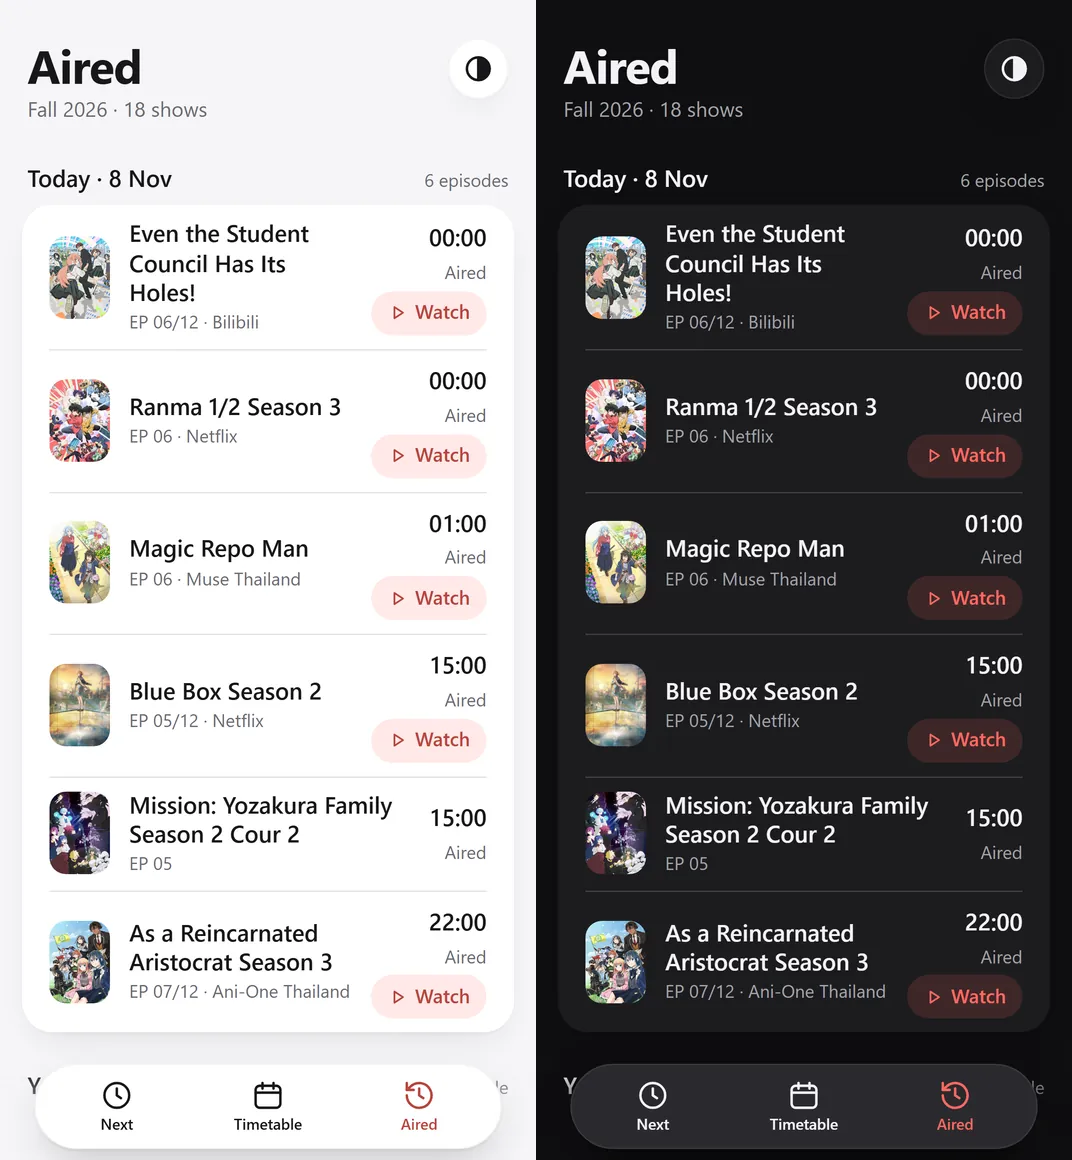
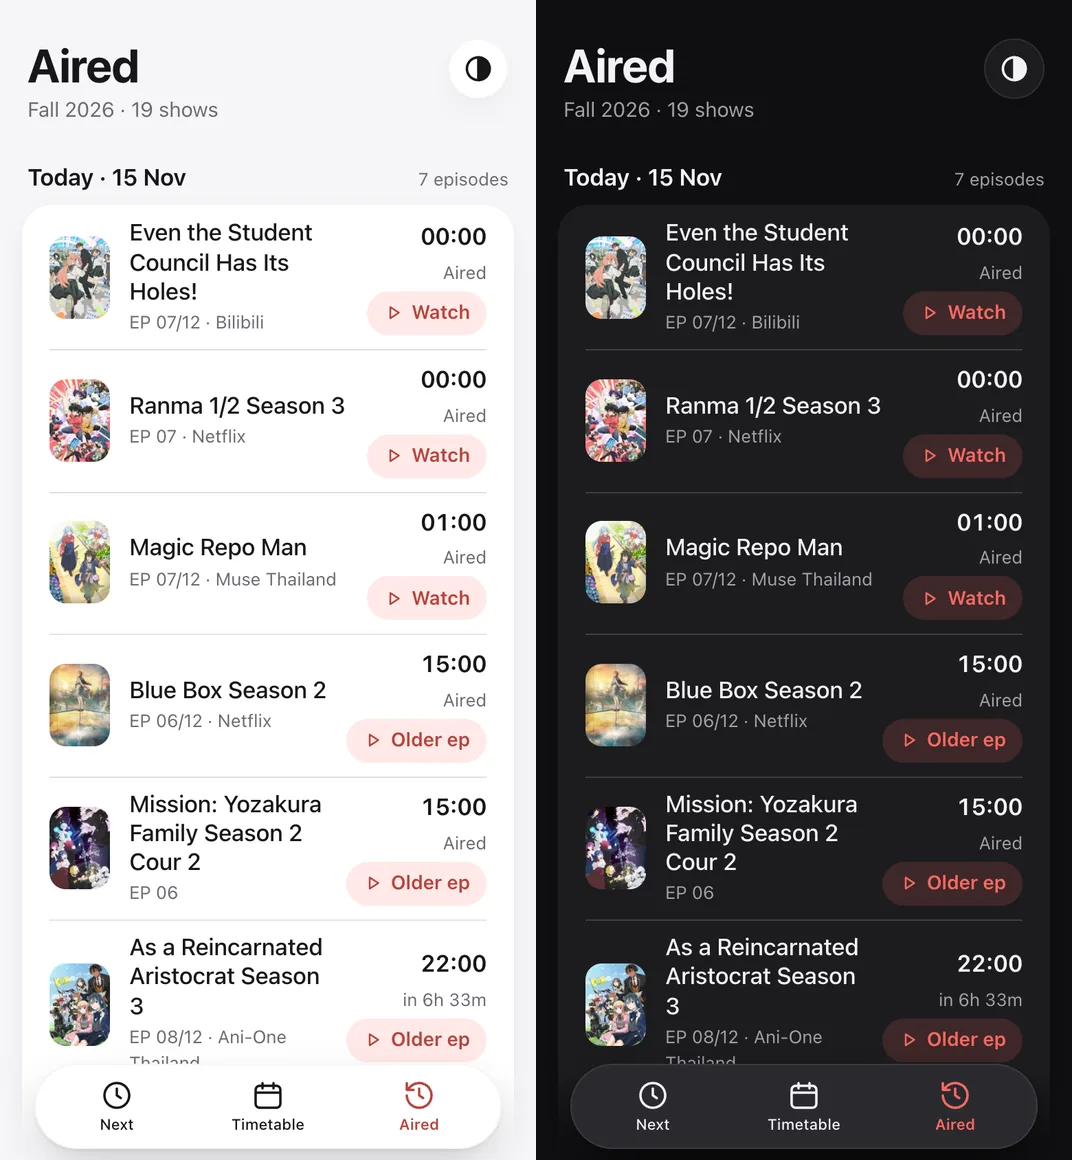
README: new website screenshots (Aired with today's later episodes and Older ep), sm-anime among the sites

diff --git a/README.md b/README.md
@@ -2,7 +2,7 @@
 
 Sends a LINE message (official account **Alert Watch**) when a tracked manga chapter, Webtoon episode or anime episode comes out, and after every Formula 1 session. It runs on GitHub Actions, so it works with your Mac off.
 
-- **Website:** https://isaraapae.github.io/alert-watch/anime/ (the old address, https://isaraapae.github.io/alert-watch/, forwards there; the move gave iPhone Safari a fresh address after it had remembered "no icon" for the old one). In the same style as [ป้าคีน](https://github.com/IsaraApae/paakeen): a floating menu (Next, Timetable, Aired) and a round Appearance button at the top. It has a countdown to the next episode and the next 7 days (**Next**), a Monday–Sunday **Timetable** (`?v=week`), and the episodes that aired in the past week with their Watch buttons (**Aired**, `?v=aired`). An episode's Watch button appears once its LINE card is out, never before (a YouTube premiere waits until it plays). A finished show leaves the site once its last episode is over a week old. Times are Thai time.
+- **Website:** https://isaraapae.github.io/alert-watch/anime/ (the old address, https://isaraapae.github.io/alert-watch/, forwards there; the move gave iPhone Safari a fresh address after it had remembered "no icon" for the old one). In the same style as [ป้าคีน](https://github.com/IsaraApae/paakeen): a floating menu (Next, Timetable, Aired) and a round Appearance button at the top. It has a countdown to the next episode and the next 7 days (**Next**), a Monday–Sunday **Timetable** (`?v=week`), and the episodes that aired in the past week with their Watch buttons (**Aired**, `?v=aired`), today's still to come included. An episode's Watch button appears once its LINE card is out, never before (a YouTube premiere waits until it plays). In **Aired**, a show whose newest episode has no Watch yet gets an **Older ep** button that opens the latest one that has. A finished show leaves the site once its last episode is over a week old. Times are Thai time.
 - **F1 Live:** https://isaraapae.github.io/f1-live/, its own site and repo ([IsaraApae/f1-live](https://github.com/IsaraApae/f1-live)): live timing, the track on a real map, calendar, standings, replays and lap battles.
 - **LINE menu:** four buttons on one white panel in the website's style, split by its hairlines, each with the site's icon: **Next**, **Timetable**, **Aired** and **F1 Live**. The menu image is [richmenu.png](richmenu.png), drawn from [richmenu.html](richmenu.html); after changing it, run the watch workflow with **richmenu** to install it in LINE.
 
@@ -32,7 +32,7 @@ Sends a LINE message (official account **Alert Watch**) when a tracked manga cha
 |---|---|
 | Manga ([urls.txt](urls.txt)) | The new chapter; for the 15 series also on WEBTOON Thai, the series in the WEBTOON app when WEBTOON has that chapter free |
 | Webtoon ([urls.txt](urls.txt)) | The episode in the WEBTOON app; for Enrolling in the Transcendent Academy, Zodiac Girls and My Virtual God Is a Teenage Girl, the series page; for Transcendent Academy and My Virtual God the card and LINE list give the app's newest episode ("Chapter 140": the 138 free plus the 2 locked behind coins or ads, `WEBTOON_LOCKED` in `watch.py`) |
-| Anime ([anime.txt](anime.txt)) | Muse/Ani-One shows: the Thai-sub video in Brave. Other shows (Netflix, Disney+, Bilibili, online): the [animegojo](https://animegojos.com) episode page, once it's up with Thai subs |
+| Anime ([anime.txt](anime.txt)) | Muse/Ani-One shows: the Thai-sub video in Brave. Other shows (Netflix, Disney+, Bilibili, online): the episode page on whichever site posts it first with Thai subs ([animegojo](https://animegojos.com), animeruka or [sm-anime](https://www.sm-anime.com)) |
 | Anime specials | The Thai-sub video in Brave. Specials are episode 0 or ".5" episodes posted by Muse Thailand or Ani-One Thailand, sent once a YouTube premiere starts. |
 
 Manga and anime cards look like a piece of the anime website, in its colours: on the site's light grey, a bold label like its day labels (New episode, New chapter, Watch now, New special), then a white rounded card holding one row as the site lists an episode: the cover with rounded corners, the title, the details in grey, and the site's **▷ Watch** (anime) or **▷ Read** (manga) pill. Tapping anywhere on the card opens the episode or chapter. If LINE ever refuses a card, the alert is sent as plain text instead; if LINE takes neither (LINE is down), the alert isn't recorded as sent, and the next check sends it.
@@ -108,7 +108,8 @@ You can also edit the files directly:
   - **When AniList or Syoboi is down** (on 21 Oct 2026 both were: AniList switched its API off for everyone, and Syoboi's server was offline), the watcher carries on with their last good answers, saved as `anilist_media` and `tv_times` in `ci-state.json` (or, before anything is saved, the episodes in `schedule.json`). Alerts, Watch links and the website keep working; the run logs `FAIL anilist: ... (using its last saved answer)`. New shows and changed air times wait until the site is back, and release times aren't learned meanwhile.
   - Thai-sub videos: the YouTube Data API (each channel's 50 newest uploads).
   - Thai-sub episodes on [animegojo](https://animegojos.com): used for the shows not on Muse/Ani-One (Netflix, Disney+, Bilibili, online). A series counts only if its page says (ซับไทย), never พากย์ไทย. These shows get **no card at the scheduled time** — one card (and a website Watch button) is sent only once animegojo has the episode, within ~8 days of release. Episodes released together (a whole Netflix season at once) are grouped into one card, e.g. "Episode 01-10"; if animegojo uploads them in parts, each part gets its own card as it appears ("Episode 01-03", then "Episode 04-07", ...). If a site continues a new cour on an older page (`GOJO_SHIFT` in `watch.py`; Yozakura Cour 2 appears as ตอนที่ 13+), the numbers are mapped back.
-  - **Two sites race: animeruka and animegojo** (and suba-anime for Yozakura). Each episode gets one card, from whichever site posted it first, and the card opens that site's episode page. Every card shows when the episode aired (its platform's Thai release time, or Japanese TV), not when the site posted it. animeruka is read from its episode feed (`FEEDS` in `watch.py`), ซับไทย posts only, which gives each upload's exact time. The feed only answers visitors in Thailand, so [vpn_feeds.py](vpn_feeds.py) reads it through a free Thai VPN Gate server, taking only the connection settings from VPN Gate's configs (never scripts or routes: the configs come from volunteers' servers). anime-waku was dropped: its Cloudflare bot check refused GitHub's servers. animegojo shows no upload times, so an episode first seen there is taken as uploaded halfway between the last check and this one (`first_source` marks the order `estimated`). Ordinary requests only: if a site answers with Cloudflare's bot check (as animeruka has for GitHub's servers), the run logs `FAIL animeruka: HTTP 403 (Cloudflare bot check)` and the other sites carry on. Run the workflow with **sites** to see which ones GitHub can read. On the website, each episode shows the show's official platform (Netflix, Bilibili, Muse Thailand...), never the site its Watch button opens; Yozakura, with no Thai platform, shows none.
+  - **The sites race: animeruka, animegojo and sm-anime** (and suba-anime for Yozakura). Each episode gets one card, from whichever site posted it first, and the card opens that site's episode page. Every card shows when the episode aired (its platform's Thai release time, or Japanese TV), not when the site posted it. animeruka is read from its episode feed (`FEEDS` in `watch.py`), ซับไทย posts only, which gives each upload's exact time. The feed only answers visitors in Thailand, so [vpn_feeds.py](vpn_feeds.py) reads it through a free Thai VPN Gate server, taking only the connection settings from VPN Gate's configs (never scripts or routes: the configs come from volunteers' servers). anime-waku was dropped: its Cloudflare bot check refused GitHub's servers. animegojo shows no upload times, so an episode first seen there is taken as uploaded halfway between the last check and this one (`first_source` marks the order `estimated`). Ordinary requests only: if a site answers with Cloudflare's bot check (as animeruka has for GitHub's servers), the run logs `FAIL animeruka: HTTP 403 (Cloudflare bot check)` and the other sites carry on. Run the workflow with **sites** to see which ones GitHub can read. On the website, each episode shows the show's official platform (Netflix, Bilibili, Muse Thailand...), never the site its Watch button opens; Yozakura, with no Thai platform, shows none.
+  - [sm-anime](https://www.sm-anime.com) (`SM` in `watch.py`): its home page lists every series with its newest episode ("ตอนที่ 1-8 ซับไทย", ซับไทย only), so one request shows which shows have something newer, and that series' page links each episode (`.../episode/48317/`), which the card opens. Its RSS feed only announces new series, so it isn't used. A page that counts on through every season (Ranma 1-32) is skipped, so a card is never sent for an older season's episode. It's read only while one of these shows has an episode due, with ordinary requests (a bot check is reported, not worked around); GitHub's servers can read it.
   - **Mission: Yozakura Family Season 2 Cour 2** is the only show also checked on [suba-anime](https://suba-anime.com/yozakura-san-chi-no-daisakusen-ss2/) (`OTHER_PAGES` in `watch.py`), and it's never dropped: suba-anime races with the sites above for every episode, and the fastest gets the card. Its page lists the whole season, so Cour 2's episode 1 is its ตอนที่ 13 (animegojo too: `GOJO_SHIFT`); episodes marked (ยังไม่มา) aren't out yet. It's checked from a day before each episode is due, with ordinary requests only (if the site ever puts up a bot check, the run reports it rather than working around it). 
   - For animegojo shows, each show's ซับไทย page is remembered (`gojo_pages` in `ci-state.json`). Besides animegojo's fast-moving home page, the watcher checks that page from a day before each episode is due, so an episode is caught even after it scrolls off the home page; the website's Watch buttons use the same page.
   - A show with no saved page (a new season, like Edgerunners 2 or Yozakura Cour 2) is found by searching animegojo (`gojo_search` in `ci-state.json`). Pages already there at the first search are older seasons and never count; a page counts once it is new or gains an episode that is due, and is then saved.
@@ -120,7 +121,7 @@ You can also edit the files directly:
   - **ping** sends a test card.
   - **richmenu** installs the LINE menu.
   - **f1check** has LINE check every kind of card (anime, manga, and the F1 result, changed result, starting grid, live and standings cards, built from the latest race) without sending anything.
-  - **sites** checks which anime sources GitHub can read right now (animegojo, suba-anime, animeruka and its episode feed).
+  - **sites** checks which anime sources GitHub can read right now (animegojo, suba-anime, sm-anime, animeruka and its episode feed).
 - `python3 watch.py test` runs the self-checks (offline: every request is mocked). The **ci** workflow runs them on every push and pull request.
 - [line/Code.gs](line/Code.gs) is the LINE command webhook. It runs on Google Apps Script with these script properties: `LINE_TOKEN`, `GITHUB_TOKEN`, `OWNER_ID`, and `WEBHOOK_KEY`, a long random string that the webhook URL in the LINE Developers console must then end with (`.../exec?key=<it>`). Apps Script can't read LINE's signature header, so the key is what shows a request comes from LINE; until it's set, requests are accepted as before. After you change the script, redeploy it with **Manage deployments → New version**.
 - The `site/` folder holds the website. `.github/workflows/pages.yml` publishes it to GitHub Pages whenever it changes (in **Settings → Pages** the source is **GitHub Actions**):
